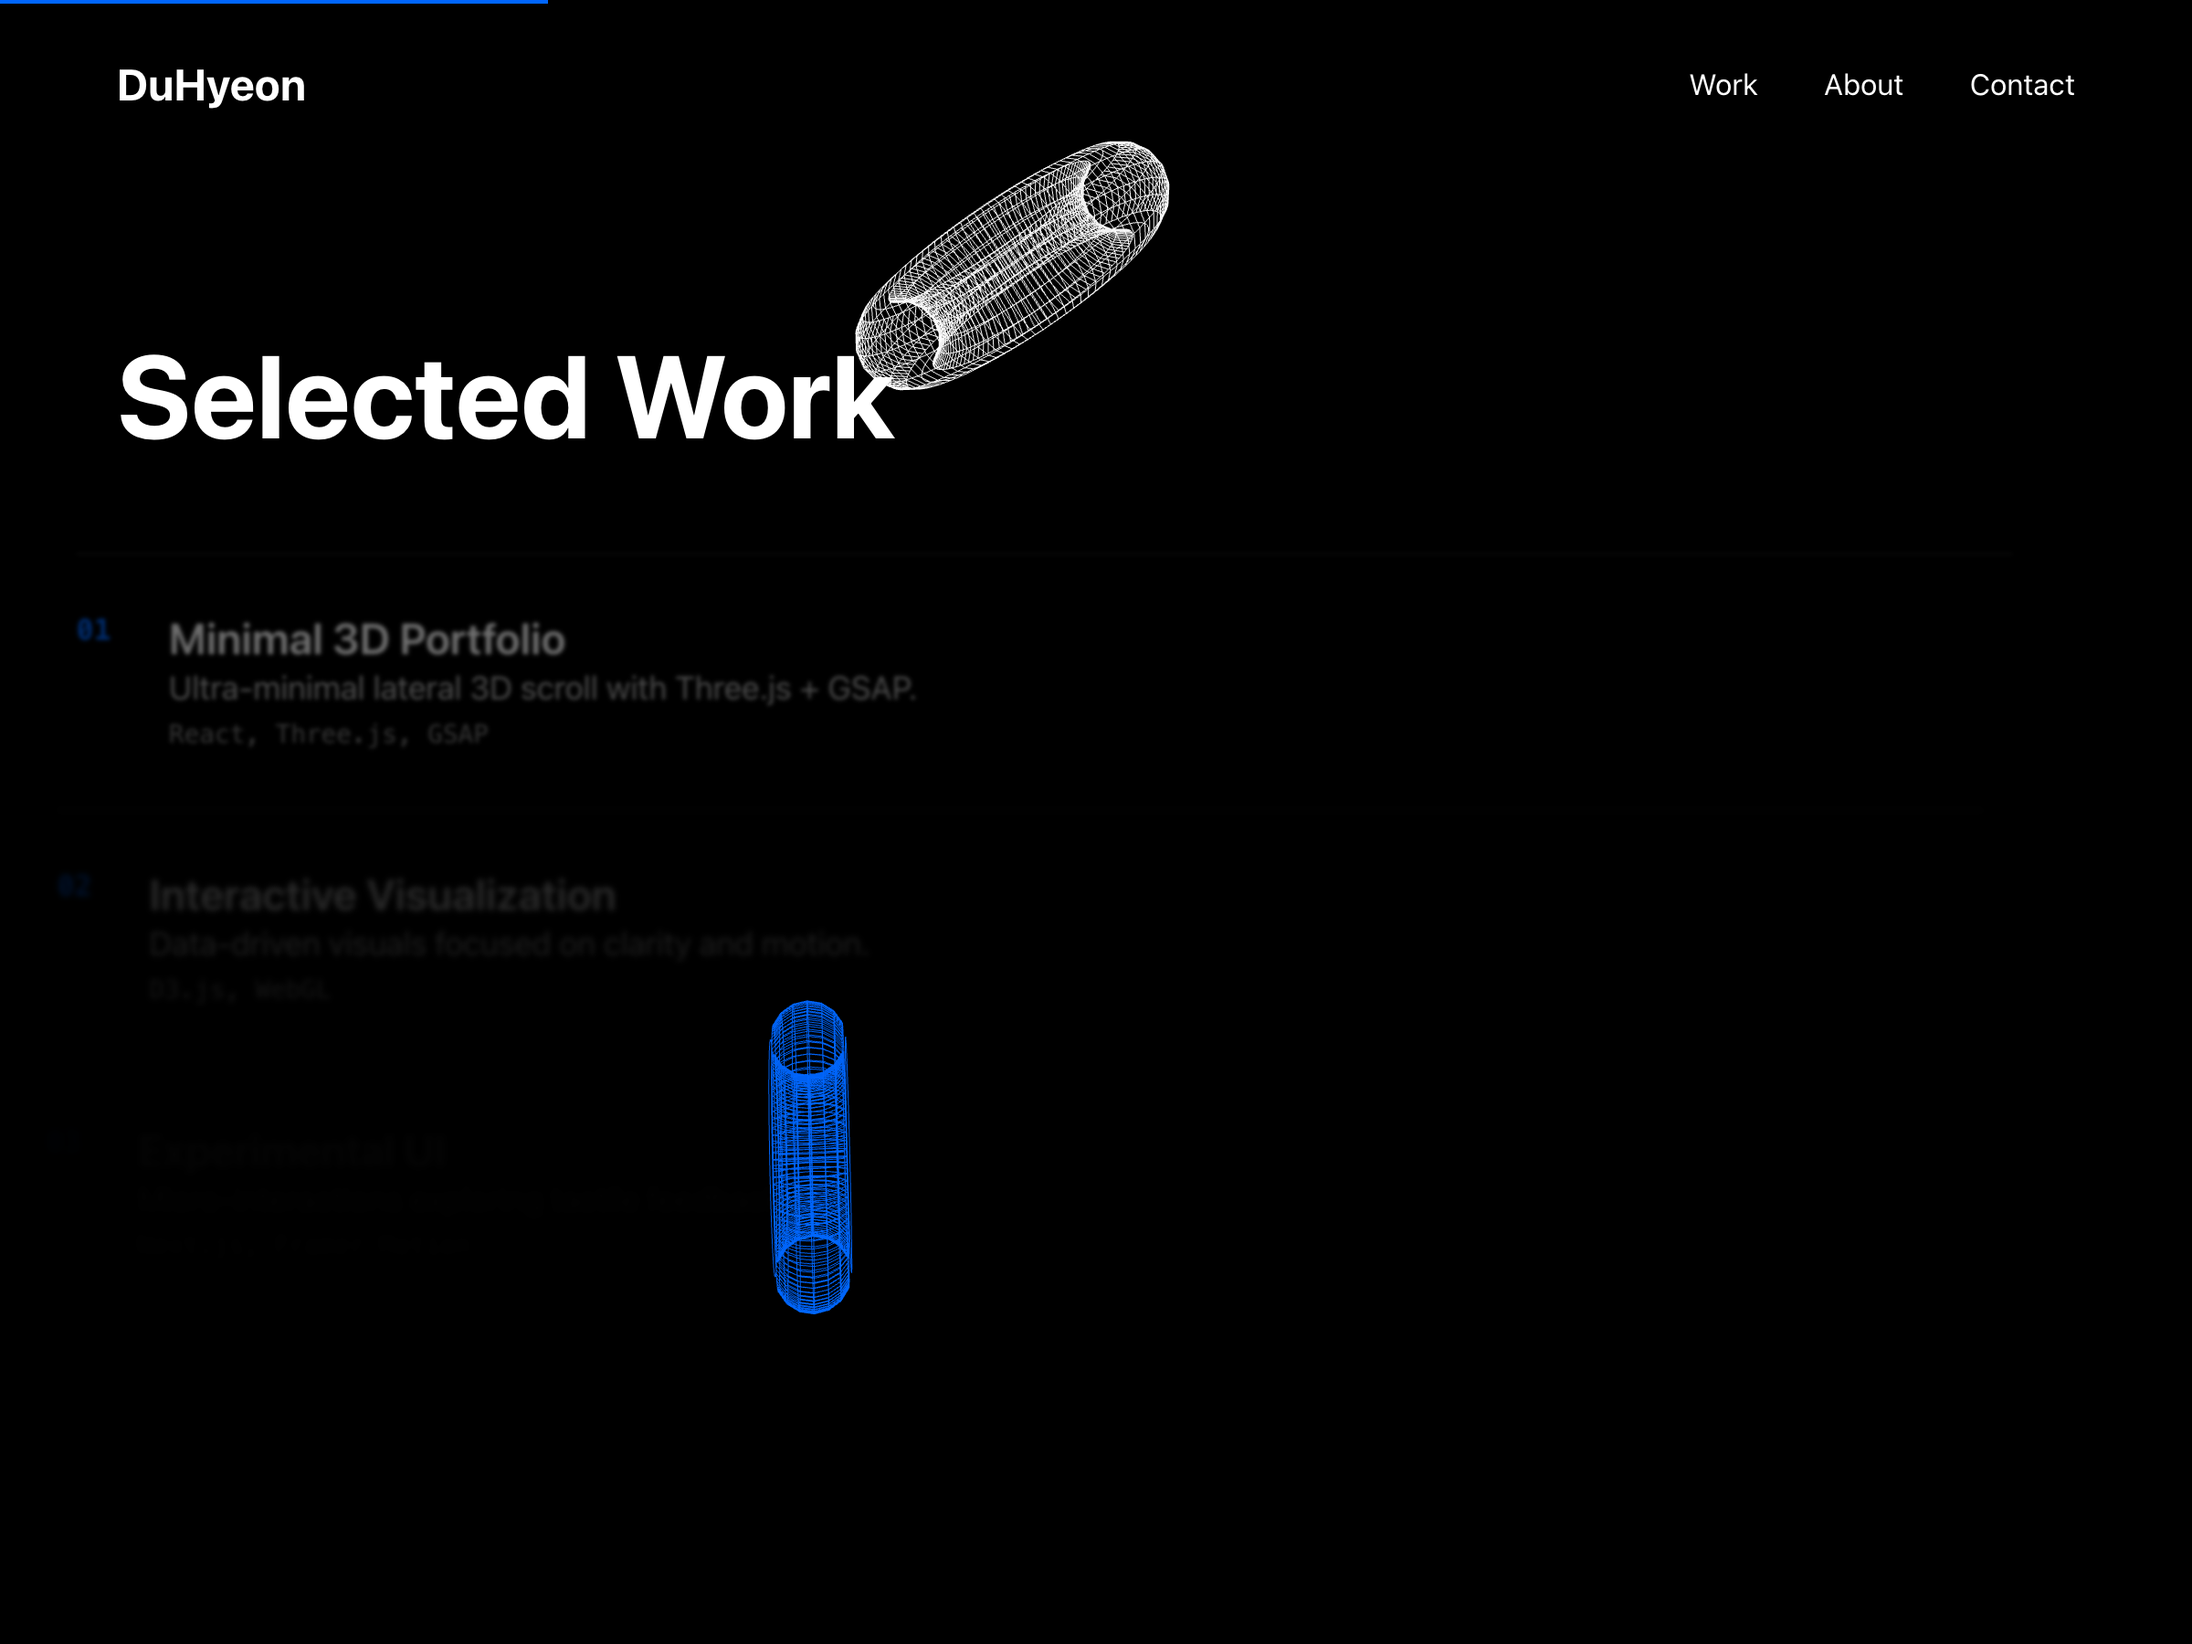
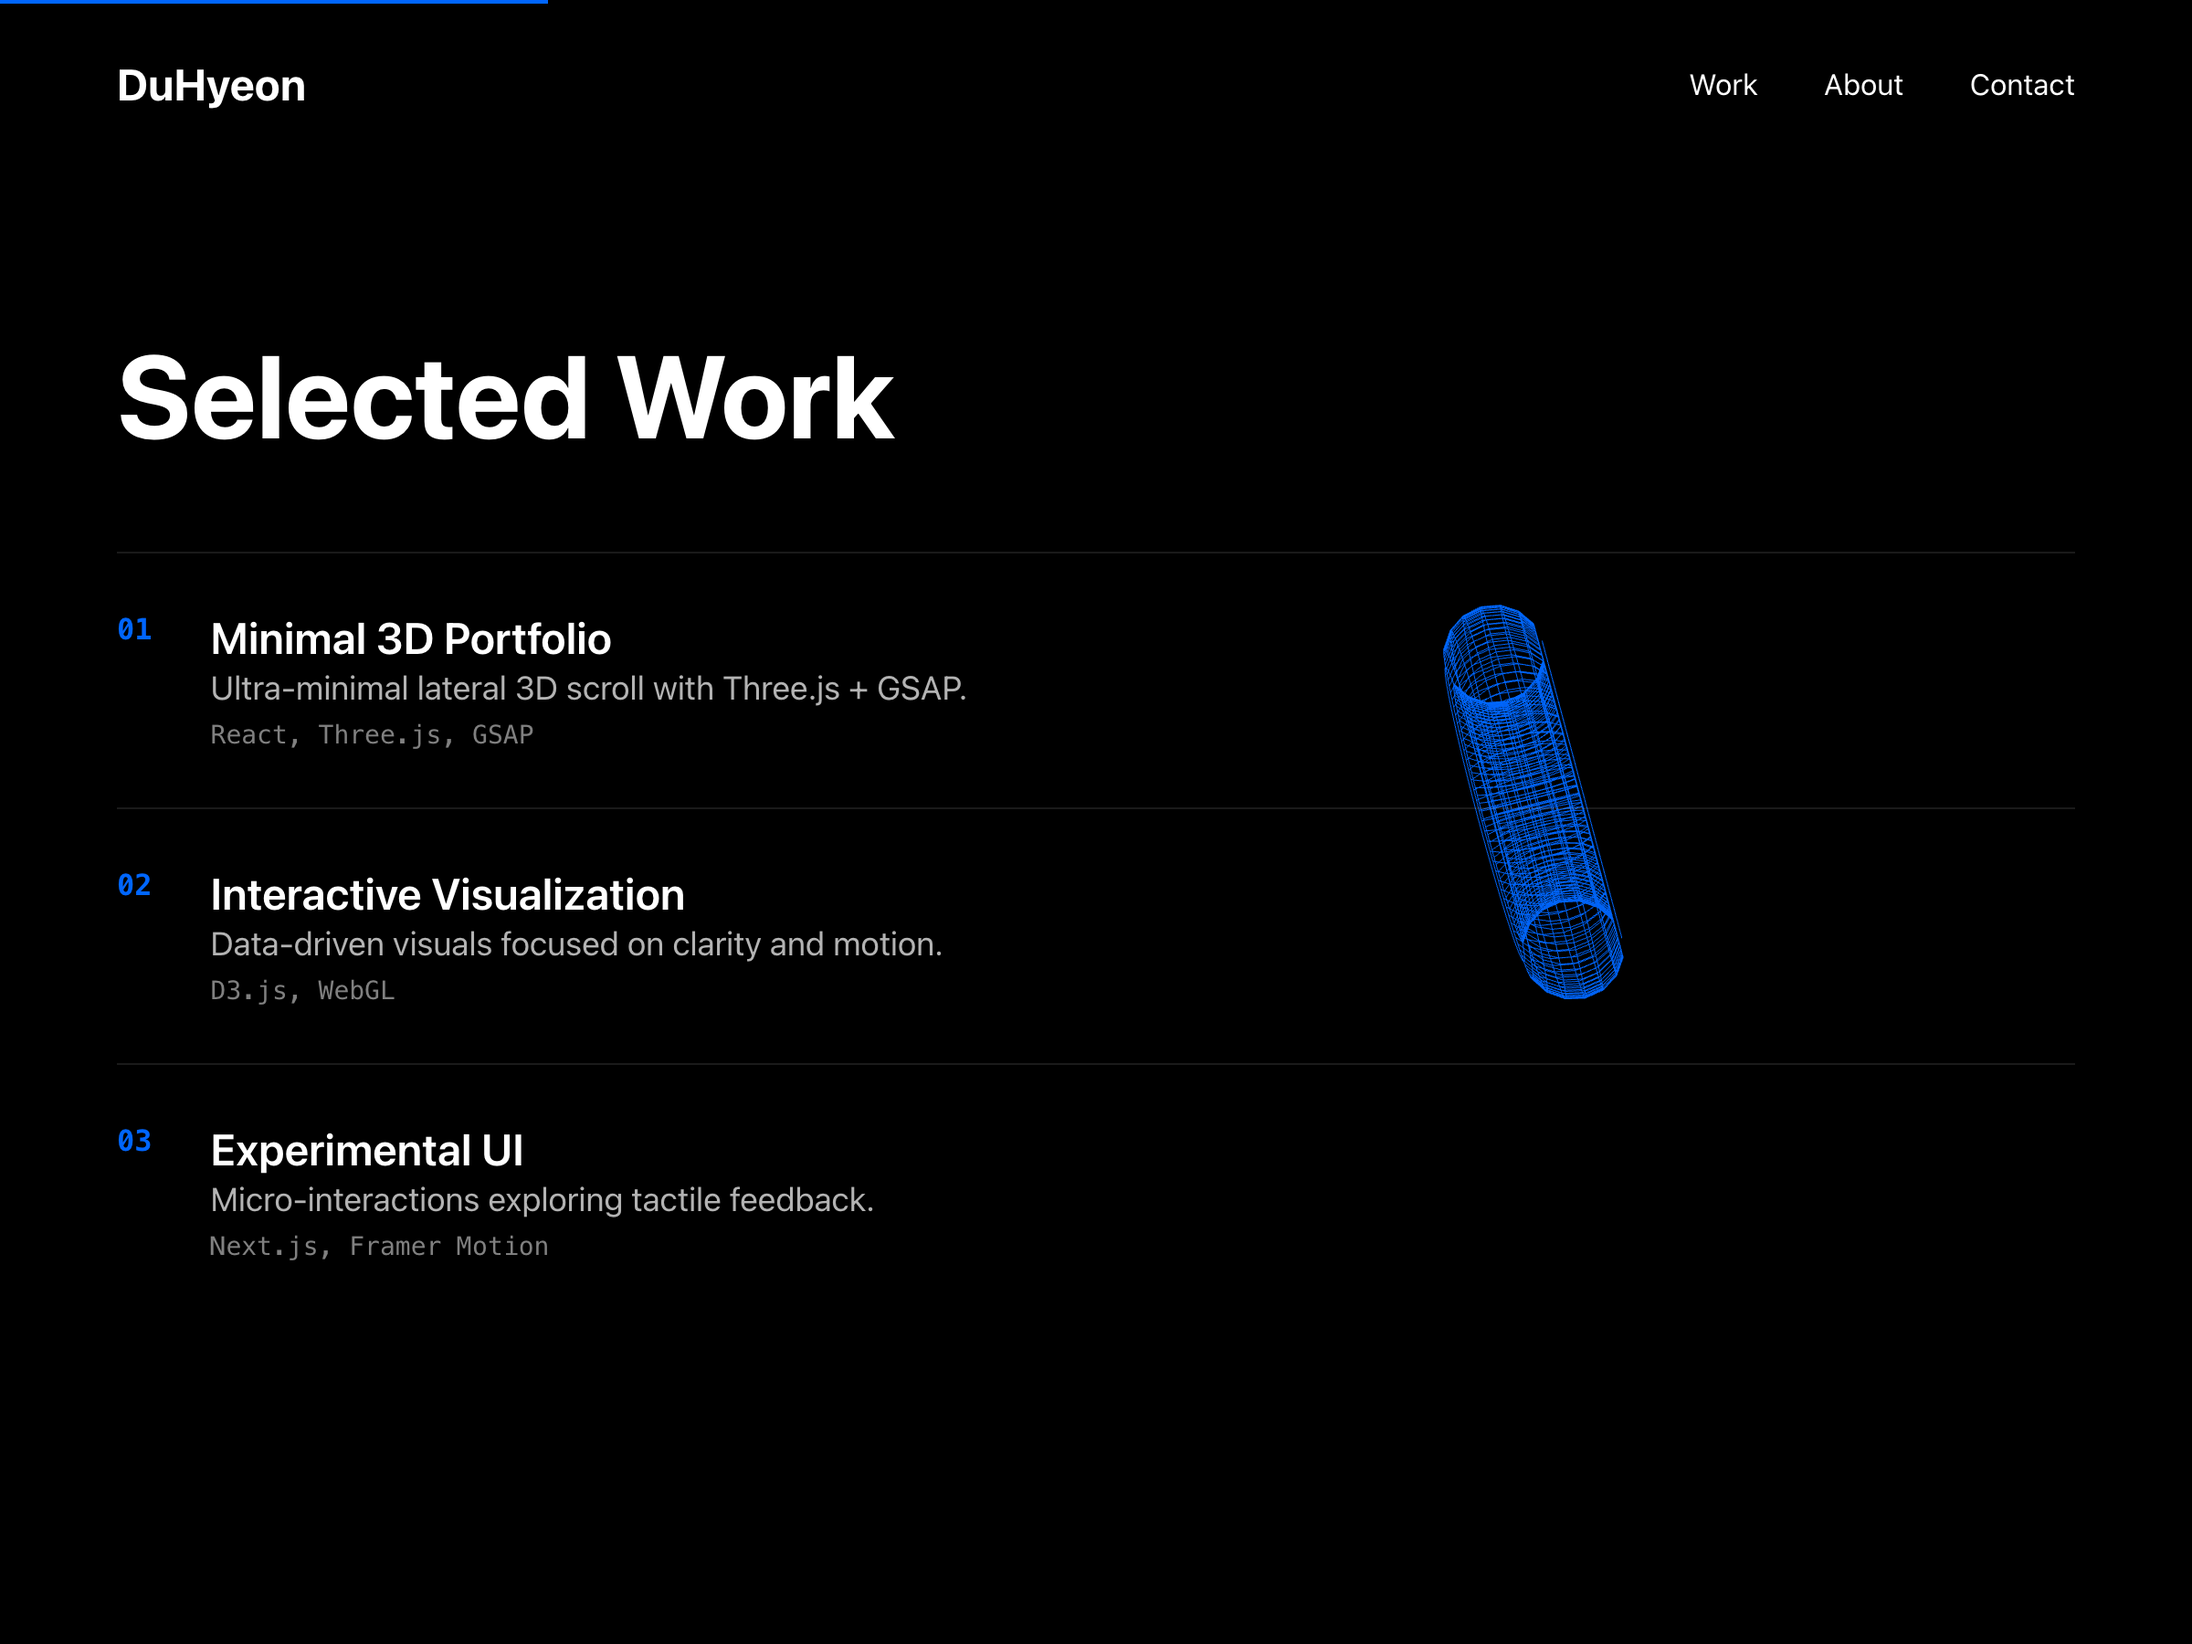
chore(capture): wait for ScrollTrigger reveal before capturing work.png

diff --git a/scripts/capture.js b/scripts/capture.js
@@ -18,8 +18,26 @@ async function main() {
   await new Promise(r => setTimeout(r, 500));
   await page.screenshot({ path: path.join(outDir, 'hero.png') });
 
-  await page.evaluate(() => { const el = document.querySelector('#work'); el && el.scrollIntoView({ behavior: 'instant', block: 'start' }); });
-  await new Promise(r => setTimeout(r, 400));
+  await page.evaluate(() => {
+    const el = document.querySelector('#work');
+    el && el.scrollIntoView({ behavior: 'instant', block: 'start' });
+    if (window.ScrollTrigger && window.gsap) {
+      window.ScrollTrigger.refresh();
+      window.ScrollTrigger.update();
+    }
+  });
+  // Wait until project items are fully revealed (opacity ~ 1 and transform settled)
+  await page.waitForFunction(() => {
+    const items = document.querySelectorAll('.project-list .project');
+    if (!items.length) return false;
+    for (const el of items) {
+      const cs = getComputedStyle(el);
+      const op = parseFloat(cs.opacity);
+      if (op < 0.99) return false;
+    }
+    return true;
+  }, { timeout: 6000 });
+  await new Promise(r => setTimeout(r, 150));
   await page.screenshot({ path: path.join(outDir, 'work.png') });
 
   await browser.close();
